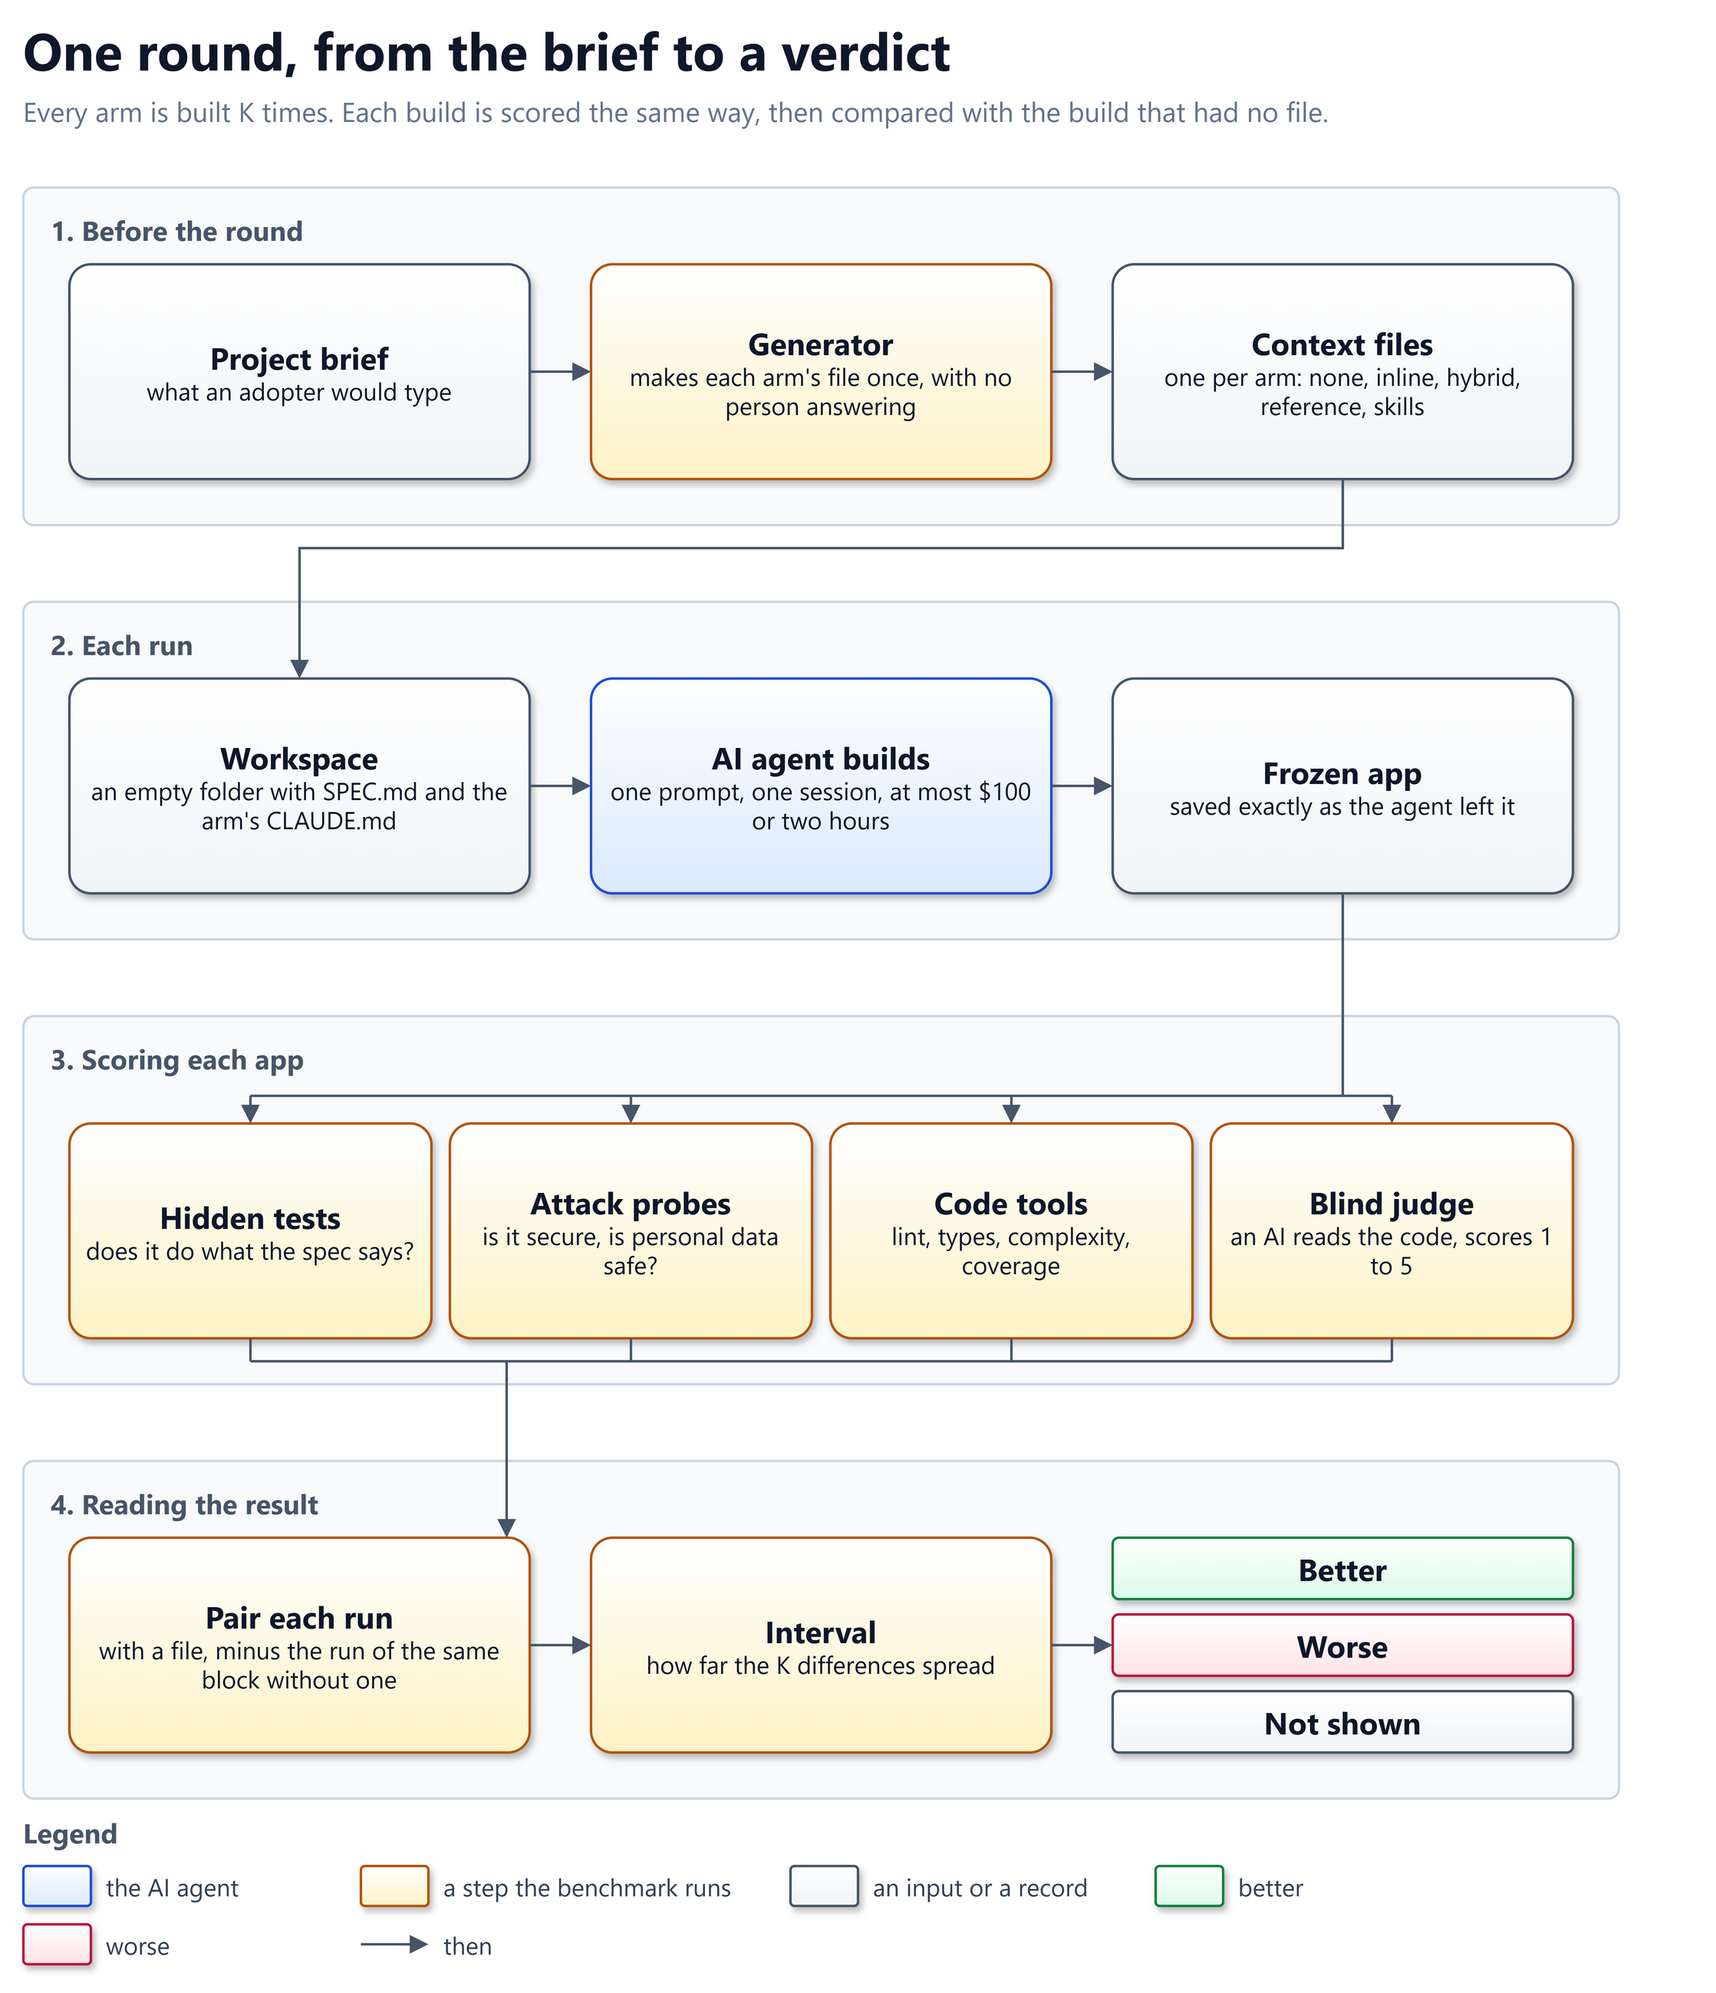
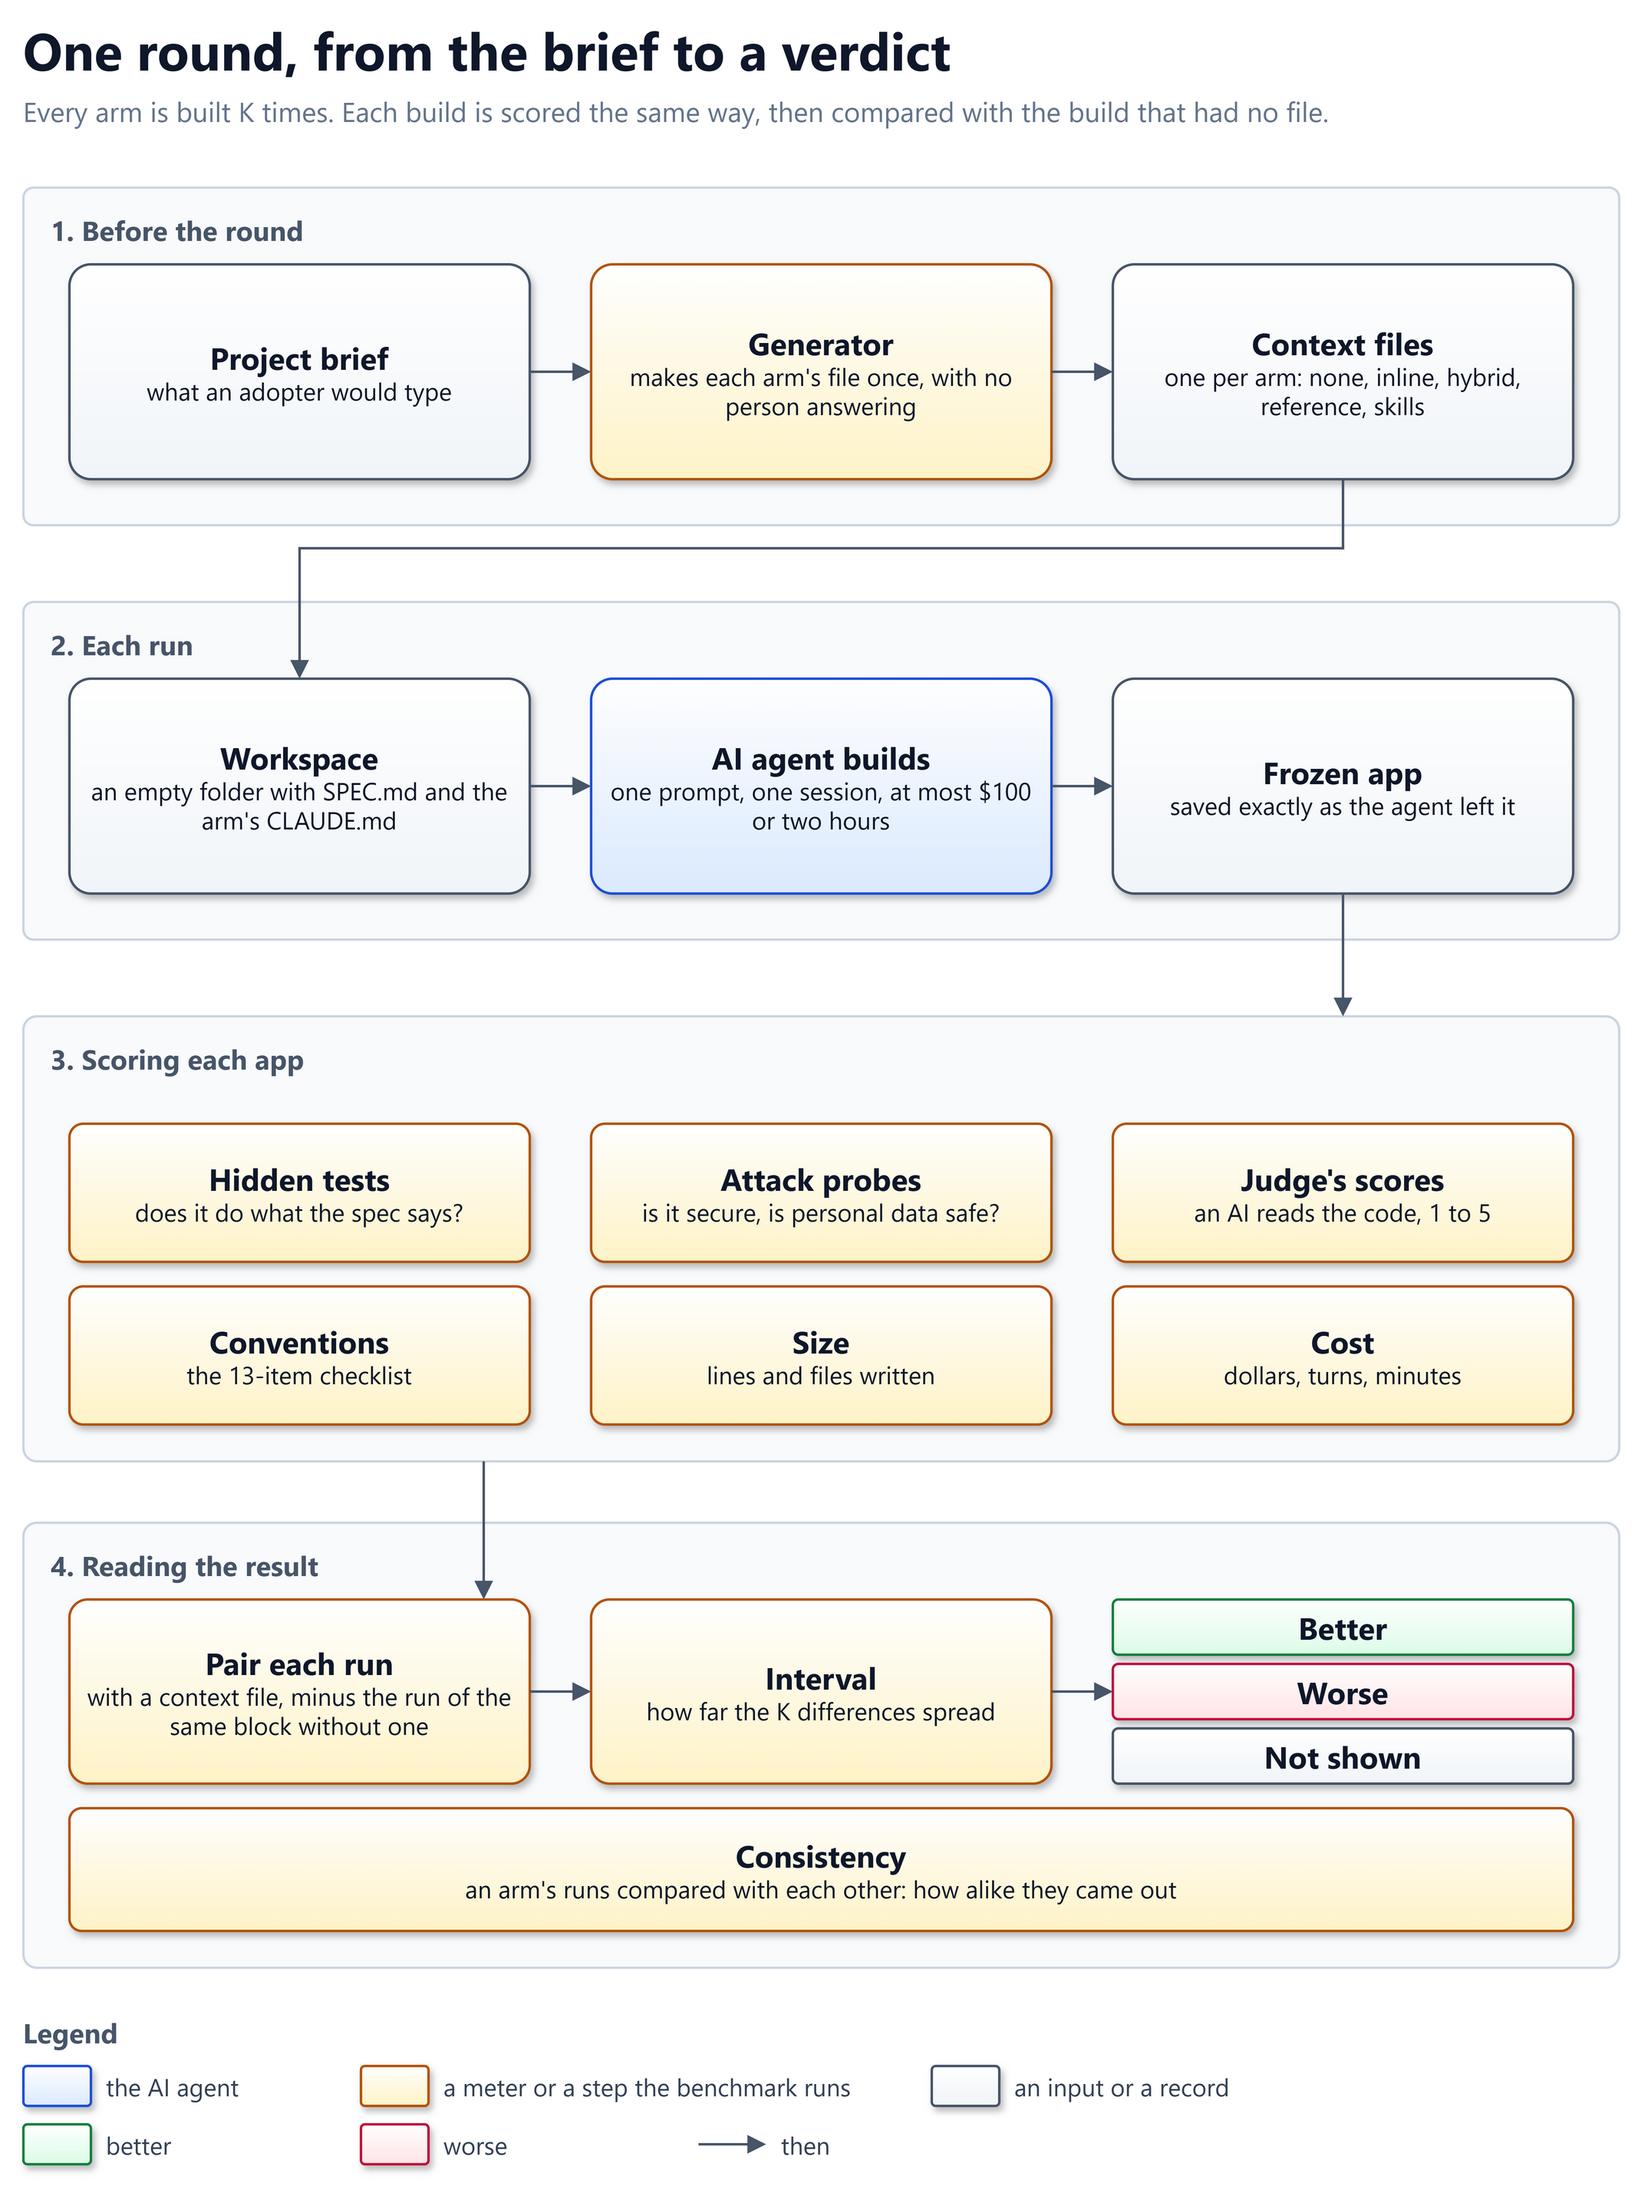
docs(primer): read six meters on each app, and consistency across runs
The round-flow diagram and the primer's step 4 named the four checks
while the knobs diagram named seven meters. Both now show the six meters
read on each app, and consistency in reading the result.

Claude-Session: https://claude.ai/code/session_01HVh8GVGd72WUJ3BvM7TXQn

diff --git a/docs/primer.md b/docs/primer.md
@@ -130,7 +130,7 @@ Fixed in every run, so only the knobs can move the meters:
 
 ## 4. One round, start to finish
 
-![One round in four stages. Before the round, the project brief goes to the generator, which makes each arm's context file once with no person answering. In each run, a workspace holding SPEC.md and the arm's file goes to the AI agent, which builds the app in one session, and the app is frozen as it was left. Scoring runs the hidden tests, the attack probes, the code tools and the blind judge on each frozen app. Reading the result pairs each run with the run of the same block that had no file, takes an interval over the K differences, and gives one verdict per meter: better, worse or not shown](diagrams/round-flow.png)
+![One round in four stages. Before the round, the project brief goes to the generator, which makes each arm's context file once with no person answering. In each run, a workspace holding SPEC.md and the arm's file goes to the AI agent, which builds the app in one session, and the app is frozen as it was left. Scoring reads six meters on each frozen app: hidden tests, attack probes, the judge's scores, conventions, size and cost. Reading the result pairs each run with the run of the same block that had no file, takes an interval over the K differences, and gives one verdict per meter: better, worse or not shown. Consistency compares an arm's runs with each other](diagrams/round-flow.png)
 
 1. **Make the files.** A generator turns a short project brief into each
    arm's context file, once, with nobody answering its questions. A person
@@ -141,14 +141,17 @@ Fixed in every run, so only the knobs can move the meters:
    two hours.
 3. **Freeze.** The folder is saved exactly as the agent left it, before
    anything reads it.
-4. **Score.** Every frozen app goes through the same checks:
+4. **Score.** Every frozen app is read on six meters:
    - **hidden tests**, written before any run and kept where no agent can
      see them, check the app does what the spec says
    - **attack probes** try 11 security attacks and 3 personal-data checks
-   - **code tools** count style, type and complexity defects
-   - the blind judge, another AI, reads the code three times and scores
-     design, readability, maintainability, security and data protection
-     from 1 to 5
+   - the **judge's scores**: the blind judge, another AI, reads the code
+     three times and scores design, readability, maintainability, security
+     and data protection from 1 to 5
+   - **conventions**: code tools check a 13-item checklist, such as lint,
+     types and test coverage
+   - **size**: the lines and files the agent wrote
+   - **cost**: the dollars, turns and minutes the run took
 5. **Compare.** Each run with a context file is compared with its no-file
    partner, and the differences give one verdict per meter. The runs of one
    arm are also compared with each other: how alike they came out is the
